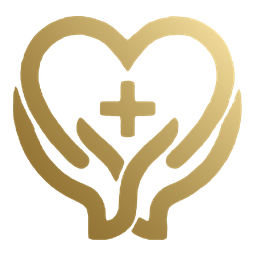
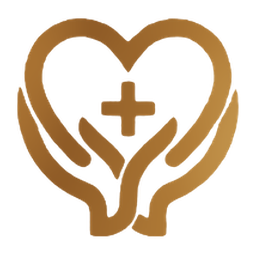
fix: 영문 표기를 MAUMEORO로 고친 새 로고로 교체
- 제공받은 수정본(영문 MAEUMEURO -> MAUMEORO, 가로 배치, 밝은 금색)을 기준으로
  헤더·푸터 로고와 파비콘을 다시 만듦
- 수정본은 285x112px로 해상도가 낮아, 같은 도안인 심볼·한글은 이전 시안에서 모양을 따고
  배치·색·영문 글자는 수정본을 그대로 따름
- 브라우저 캐시(4시간)에 옛 로고가 남지 않도록 파일명을 logo-maumeoro*.png로 변경

diff --git a/src/components/Footer.tsx b/src/components/Footer.tsx
@@ -42,10 +42,10 @@ export default function Footer() {
             {/* Company Info */}
             <div className="lg:col-span-5">
               <img
-                src="/images/logo-on-dark.png"
-                alt="마음으로 MAEUMEURO"
-                width={561}
-                height={184}
+                src="/images/logo-maumeoro-on-dark.png"
+                alt="마음으로 MAUMEORO"
+                width={638}
+                height={195}
                 className="h-[46px] w-auto mb-5"
               />
               <p className="text-white/80 text-sm leading-7 max-w-sm">

diff --git a/src/components/Header.tsx b/src/components/Header.tsx
@@ -81,10 +81,10 @@ export default function Header() {
           {/* Logo */}
           <Link href="/" className="flex items-center min-h-[44px]" aria-label="마음으로 홈">
             <img
-              src="/images/logo.png"
+              src="/images/logo-maumeoro.png"
               alt=""
-              width={561}
-              height={184}
+              width={638}
+              height={195}
               className="h-10 lg:h-[46px] w-auto"
             />
           </Link>
